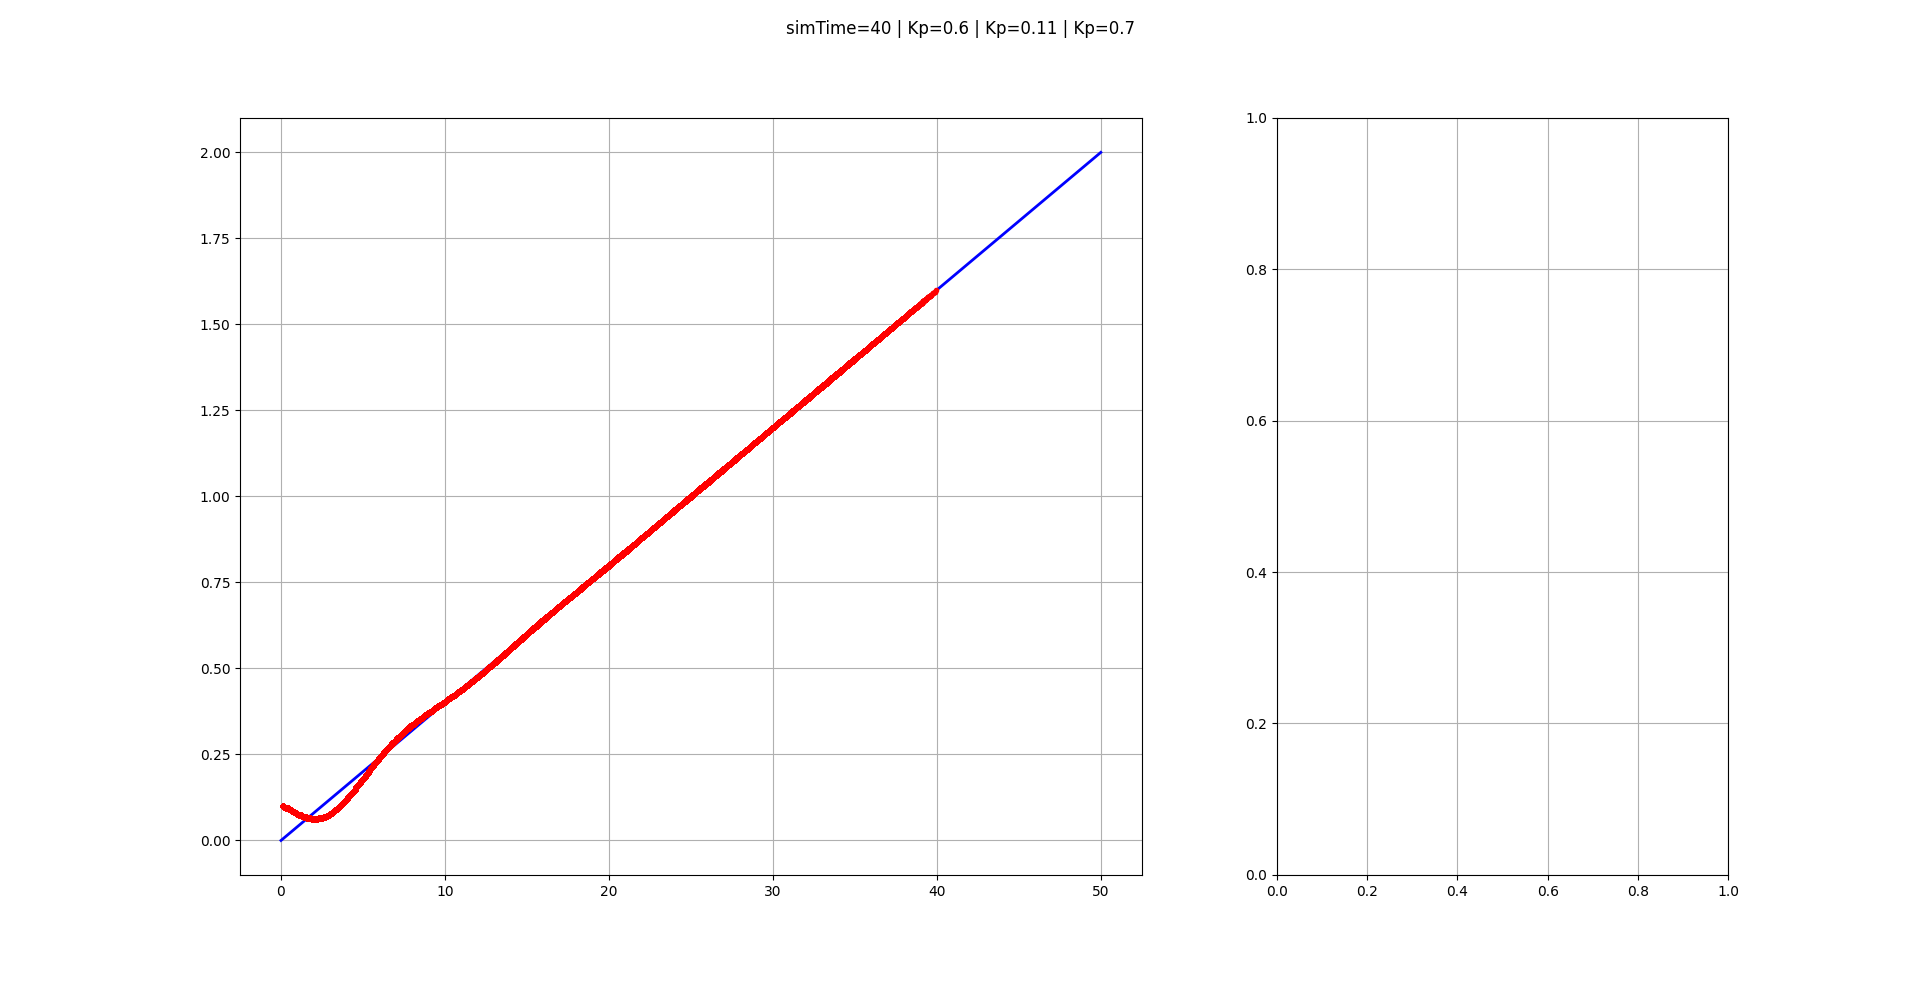
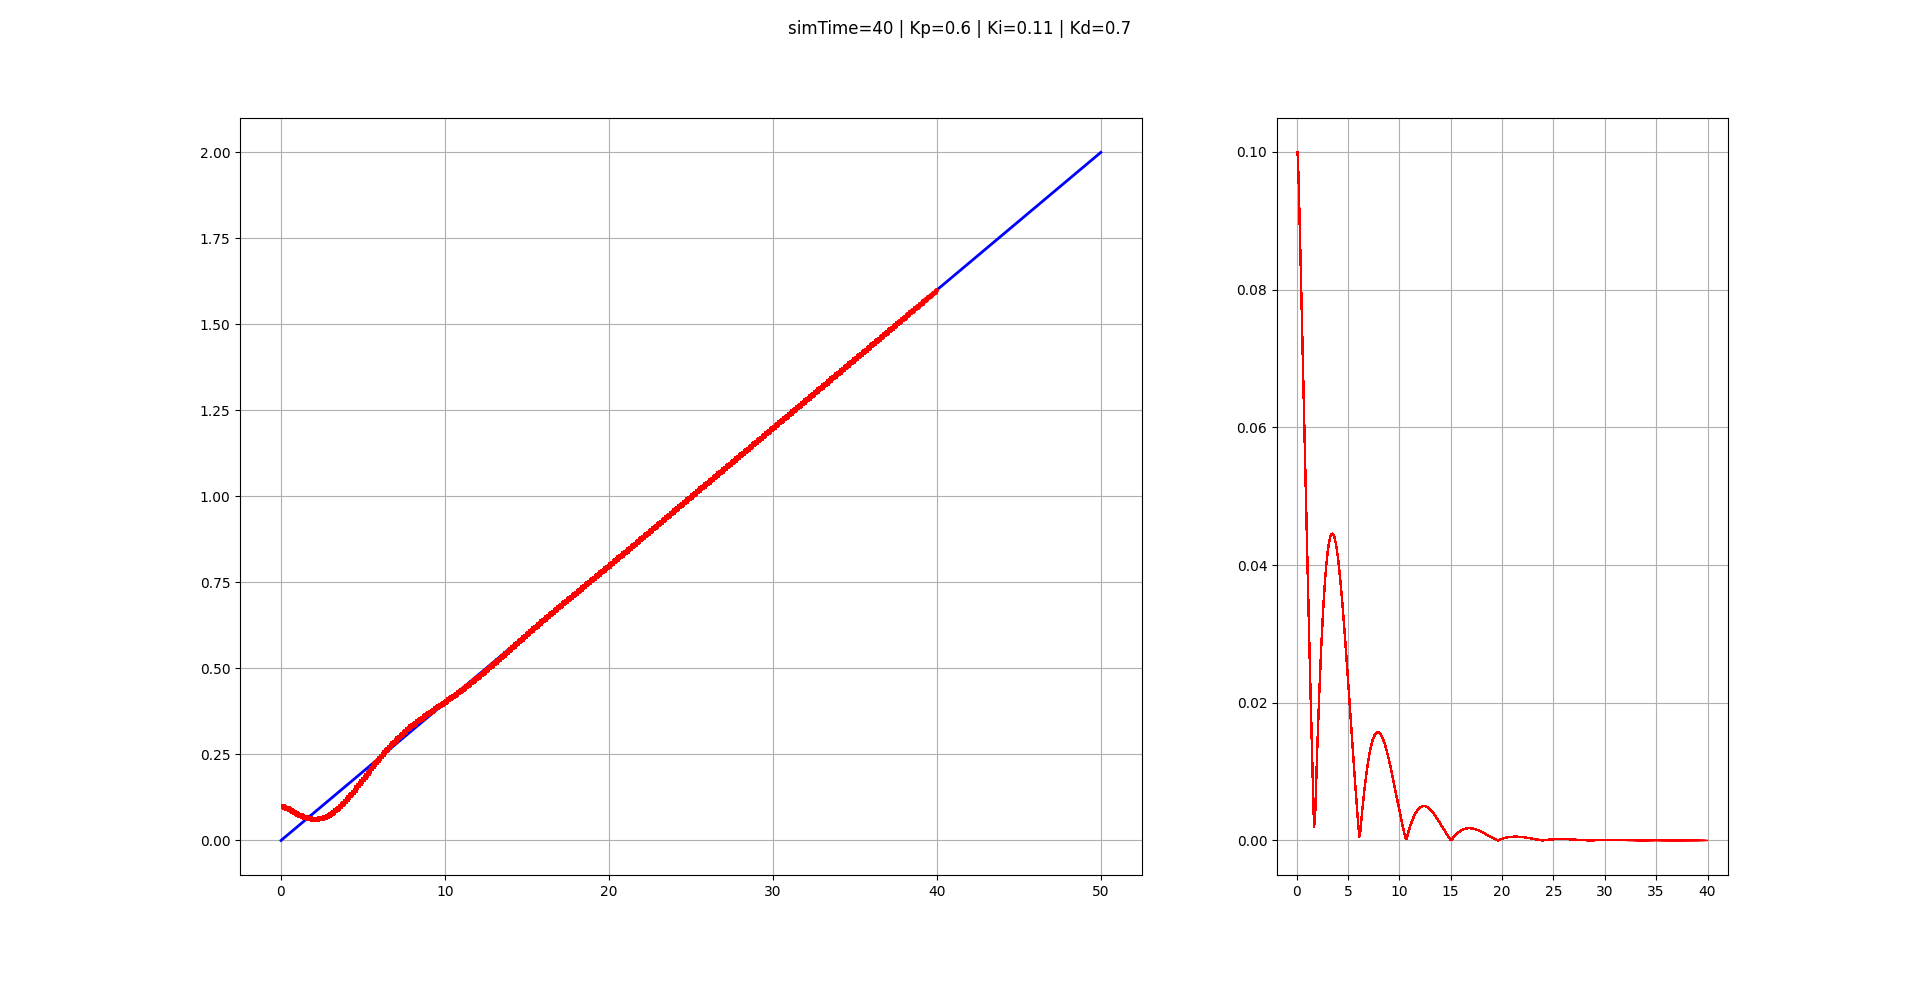
[added] crosstrack error plot data

diff --git a/src/path-following/carModel.py b/src/path-following/carModel.py
@@ -69,7 +69,8 @@ class carModel:
         self.Kd = 27.3
 
         
-        #self.error = 0
+        self.error = 0
+        self.error_abs = 0
         self.error_previous = 0
         
         self.error_p = 0
@@ -79,7 +80,11 @@ class carModel:
         #-----------------------------
         #Metrics
         self.total_error = 0
+        self.errorArray = np.array([])
+        self.errorArrayAbs = np.array([])
+        
         self.control_effort = 0
+        self.controlEffort_array = np.array([])
     #end-def
     
     
@@ -129,26 +134,50 @@ class carModel:
     
     def PID(self, error, dt, curvature):
         #error is the crosstrack_error
-        
         logging.info("Running PID ...")
+        
+        self.error = error
+        self.error_abs = abs(error)
+        logging.info(f"cross track error = {self.error}")
+        
+        #Compute Errors:
+        self.error_p = error
         self.error_i = self.error_i + (error * dt)
         self.error_d = (error - self.error_previous) / dt
-        self.error_p = error
-        
-        
-        self.error_previous = error
-        
-        self.c = (self.Kp*error + self.Ki*self.error_i + self.Kd*self.error_d) + self.curvature;
         
         logging.info(f"error_p = {self.error_p}")
         logging.info(f"error_i = {self.error_i}")
         logging.info(f"error_d = {self.error_d}")
         
-        logging.info(f"cross track error = {error}")
+        #Compute control:
+        self.c = (self.Kp*error + self.Ki*self.error_i + self.Kd*self.error_d) + self.curvature;
+        logging.info(f"computed control c = {self.c}")
         
-        logging.info(f"computed control c = {self.c}") 
+        #Save error, and append errors and control effort to arrays:
+        self.error_previous = self.error #save current error to be used on next iteration
+        
+        self.total_error += self.error #total accumulated error
+        self.errorArray = np.append(self.errorArray, self.error) #error on each iteration
+        self.errorArrayAbs = np.append(self.errorArrayAbs, self.error_abs)
+        
+        self.controlEffort_array = np.append(self.controlEffort_array, self.c) #control effort on each iteration
+                
+        logging.info(f"Current Total Sum of cross track error = {self.total_error}")
     #end-def
+    
+    def computeControlEffort(self) -> float:
+        #Control Effort computed as U = (u0)^2 + (u1)^2 + ... + (uk)^2
+        logging.info("Computing total control effort 'U = (u0)^2 + (u1)^2 + ... + (uk)^2'")
         
+        #Square each element of the array:
+        arraySquared = self.controlEffort_array**2
+        
+        #Sum:
+        self.control_effort = np.sum(arraySquared)
+        
+        logging.info(f"Total control effort U = {self.control_effort}")
+        return self.control_effort
+    #end-def
 
 #end-class
 

diff --git a/src/path-following/main.py b/src/path-following/main.py
@@ -93,7 +93,7 @@ car.Kd = 0.7
 env_map = envMap()
 
 #Draw the eight shape path
-title = f"simTime={simTime} | Kp={car.Kp} | Kp={car.Ki} | Kp={car.Kd}"
+title = f"simTime={simTime} | Kp={car.Kp} | Ki={car.Ki} | Kd={car.Kd}"
 env_map.drawShape(pathObj, titleStr=title, blockPlot=False, maximized=True)
 
 
@@ -108,6 +108,7 @@ env_map.drawShape(pathObj, titleStr=title, blockPlot=False, maximized=True)
 
 arrayIndex = 0 #integer index counter to iterate along XY point arrays
 t = 0.0 #float step counter (tk = t(k-1) + h, etc) (ex with h=0.1: t=[0.0, 0.1, 0.2, ...])
+t_array = np.array([])
 
 while t <= simTime:
     #getStateOfCar() / localizar
@@ -138,15 +139,28 @@ while t <= simTime:
         
         #Update Loop variables
         t += timestep
+        t_array = np.append(t_array, t)
         arrayIndex += 1
         
         #Plot new Car position
-        env_map.add_data_to_plot(env_map.fig1, env_map.ax2,
+        env_map.add_data_to_plot(env_map.fig1, env_map.ax1,
                                  car.xArray, car.yArray,
                                  pause_time = 0.025,
                                  plot_Suffix_title = " t = " + "{:.2f}".format(t))
         
         
+        #Plot cross-track error
+        # env_map.add_data_to_plot(env_map.fig1, env_map.ax2,
+        #                          len(car.errorArray), car.error_abs,
+        #                          pause_time = 0.025,
+        #                          plotPoint = False,
+        #                          plot_Suffix_title = " t = " + "{:.2f}".format(t))
+        
+        env_map.add_data_to_plot(env_map.fig1, env_map.ax2,
+                                 t_array, car.errorArrayAbs,
+                                 pause_time = 0.025,
+                                 plotSinglePoint = False,
+                                 plot_Suffix_title = " t = " + "{:.2f}".format(t))
         time.sleep(0.025)
         
     except KeyboardInterrupt:
@@ -154,9 +168,19 @@ while t <= simTime:
     except:
         logging.info(traceback.format_exc())
     #end-try-except
+    
+    logging.info(f"End of iteration #{arrayIndex} (t = {t})")
 #end-for
+
+
+logging.info("Simulation ended!")
+logging.info(f"Total Cross-track error: {car.total_error}")
+logging.info(f"Total Absolute Cross-track error: {np.sum(car.errorArrayAbs)}")
+logging.info(f"Total Control Effort: {car.computeControlEffort()}")
+
 
 logging.info("Saving plot snapshot ...")
 env_map.savePlot(figureName="myresult.png")
+
 
 input("________end of program________>")

diff --git a/src/path-following/envMap.py b/src/path-following/envMap.py
@@ -87,7 +87,7 @@ class envMap():
         #-------------------------------
     #end-def
     
-    def add_data_to_plot(self, figure, axis, new_Xdata, new_Ydata, plot_style_config="plots_1", plotPoint = False, pause_time=0.1, plot_Suffix_title = ""):
+    def add_data_to_plot(self, figure, axis, new_Xdata, new_Ydata, plot_style_config="plots_1", plotSinglePoint = True, pause_time=0.1, plot_Suffix_title = ""):
         """Receives a figure, axis, X and Y data to be added, plus plot config parameters.
 
         Args:
@@ -96,7 +96,7 @@ class envMap():
             new_Xdata : X data
             new_Ydata : Y data
             plot_style_config (str, optional): Plotstyle config in the config.yml. Defaults to "plots_1".
-            plotPoint (bool, optional): xxxxx not being used - consider removal on refactor. Defaults to False.
+            plotSinglePoint (bool, optional): Plot Single Point or Entire Array - change in the marker settings. Defaults to False.
             pause_time (float): Delay to add data to plot (create effect of points appearing). Defaults to 0.1.
             plot_Suffix_title (str): Used to add a new name to the figure window. Defaults to "".
 
@@ -113,17 +113,18 @@ class envMap():
         #plotConfig = readConfig(moduleName=plot_style_config)
 
         # Plot new data points
-        if (plotPoint):
+        if (plotSinglePoint):
             axis.plot(new_Xdata, new_Ydata,
                       color="red",
-                      marker='o',
-                      ls='None',  # No line, since it's a single point (or points)
-                      linewidth=2)
+                      marker='.',
+                      markersize=5,
+                      ls=':',  # No line, since it's a single point (or points)
+                      linewidth=1)
         else:  
             axis.plot(new_Xdata, new_Ydata,
                       color="red",  # Default color if not specified
-                      marker=".",
-                      ls=":",    # Default line style
+                      marker='',
+                      ls="-",    # Default line style
                       linewidth=1)  # Default line width
         #end-if-else
         
